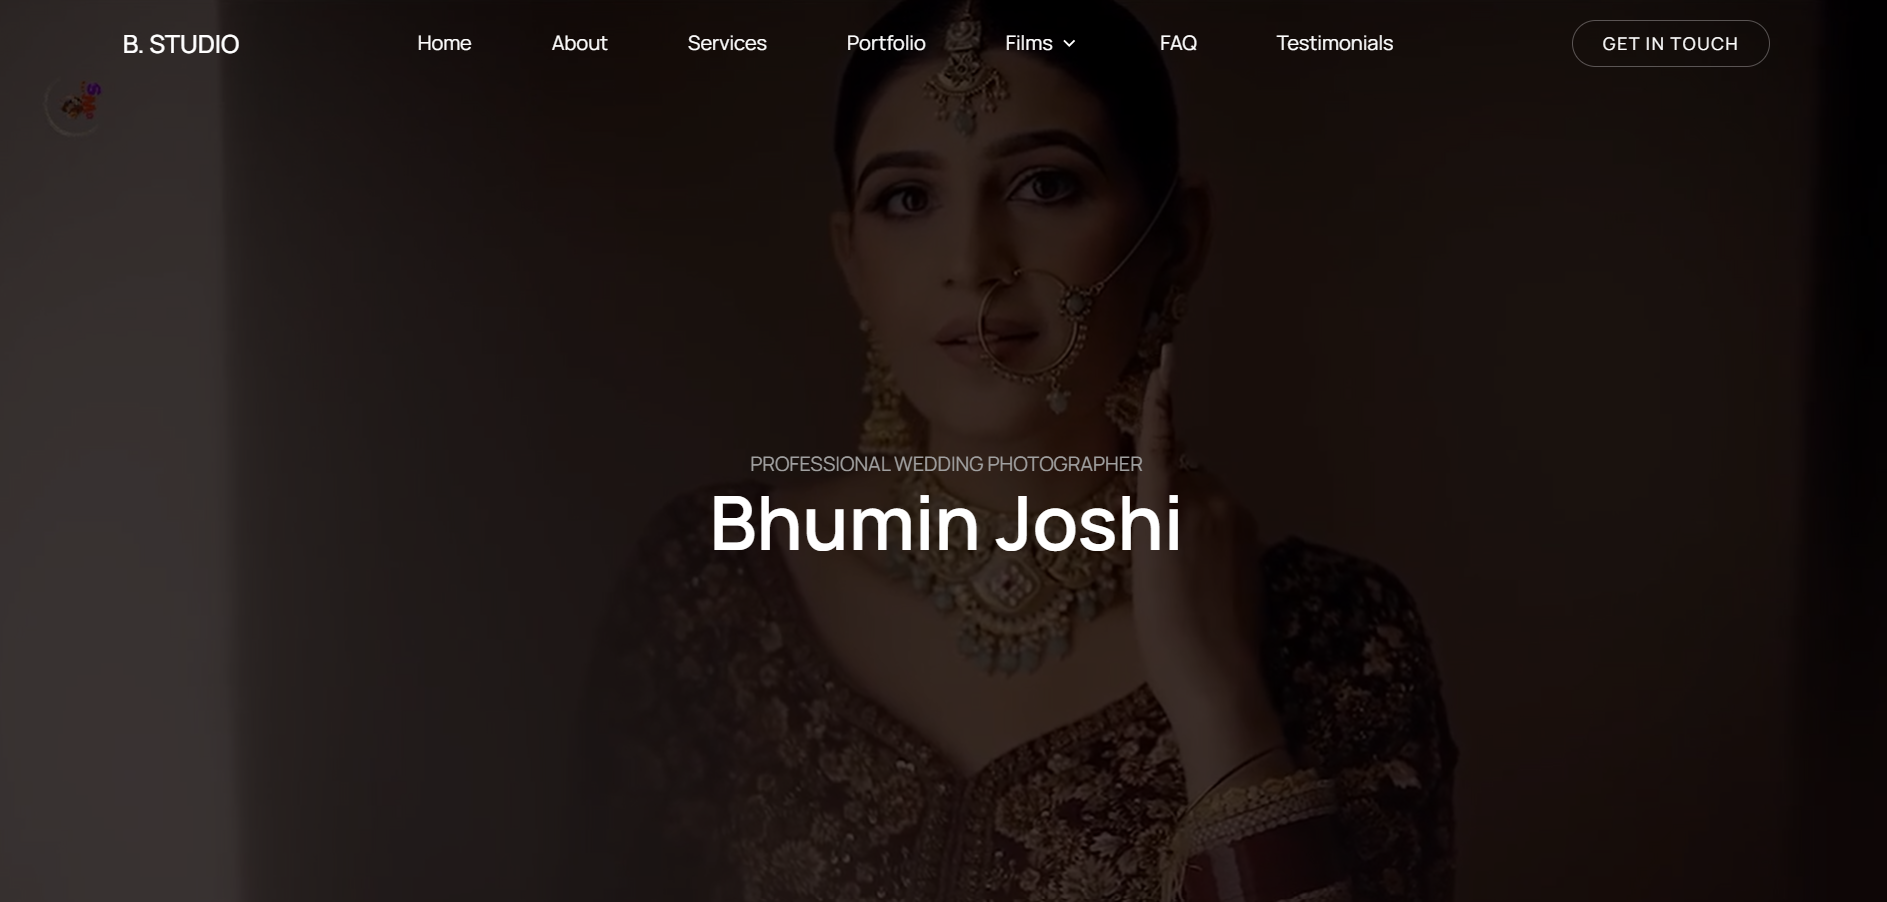
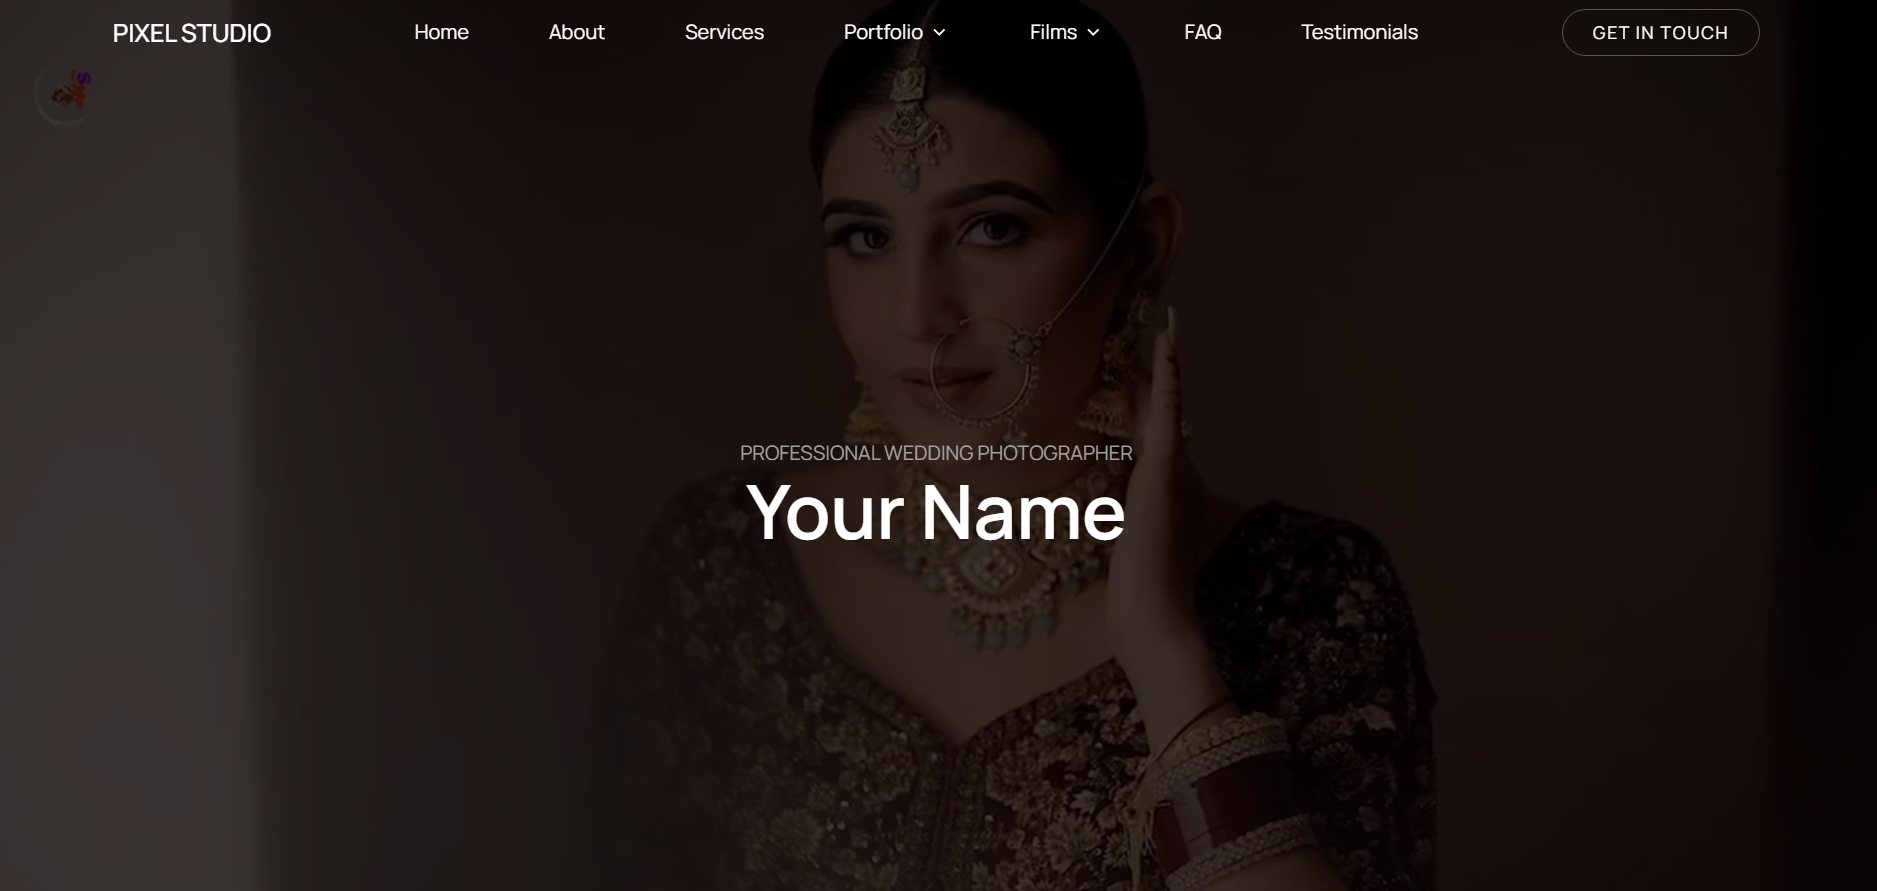
again commit

diff --git a/src/sections/Projects.jsx b/src/sections/Projects.jsx
@@ -55,8 +55,8 @@ export default function Projects() {
         image: isMobile ? photo2 : img2,
       },
       {
-        title: "B.Studio",
-        link: "https://bhumin-joshi.vercel.app/",
+        title: "Pixel Frames",
+        link: "https://pixelframes.vercel.app/",
         bgColor: "#C4A484",
         image: isMobile ? photo3 : img3,
       },
